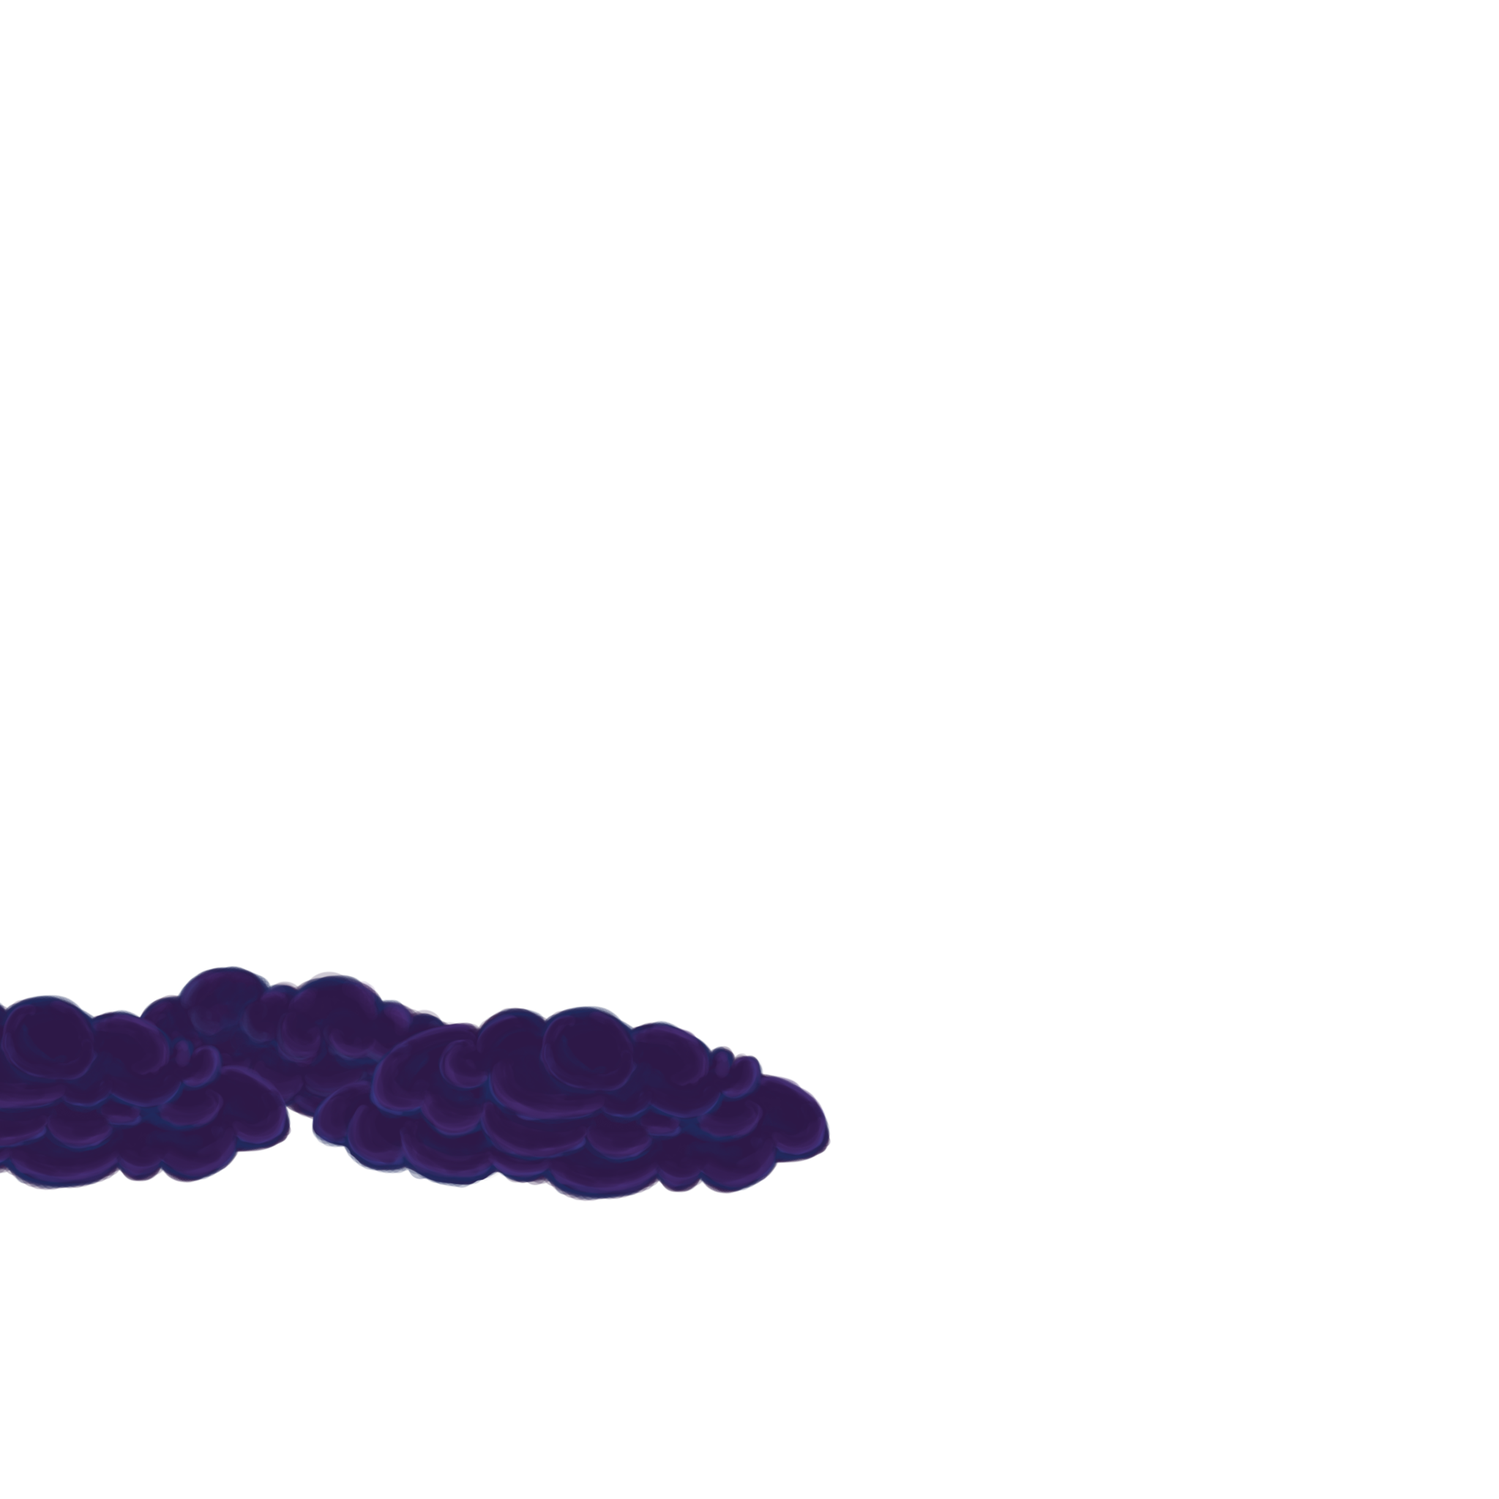
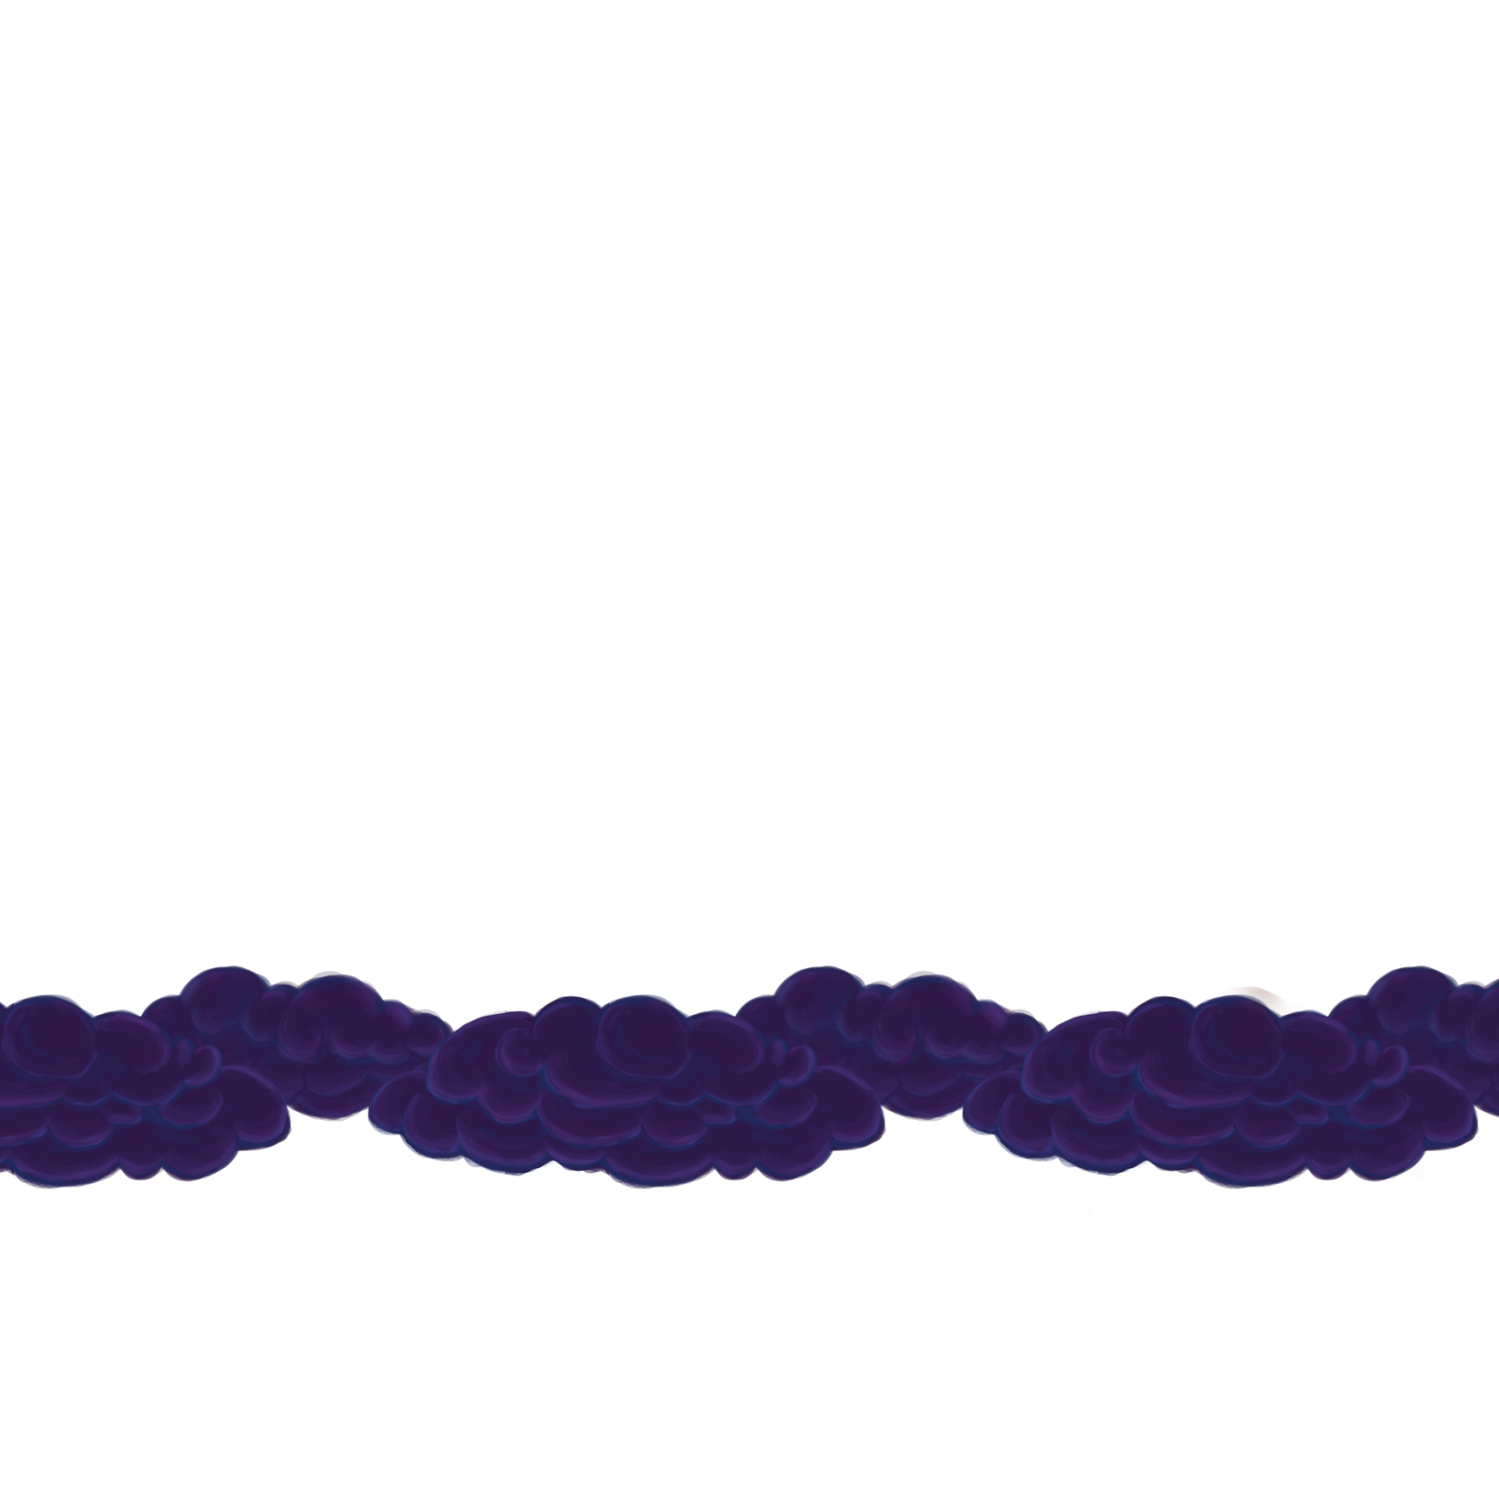
Bridges Completed
Completed the bridge breaking functionality.
Switched player sides.
Completed end of game sequences.
Fixed clouds.

Changed region(s): [[0.1875, 0.625, 1.0, 0.8125]]

diff --git a/WorldsApart/WorldsApart/Code/Levels/FinalBridge.cs b/WorldsApart/WorldsApart/Code/Levels/FinalBridge.cs
@@ -3,6 +3,8 @@ using System.Collections.Generic;
 using System.Linq;
 using System.Text;
 
+using System.IO;
+
 using Microsoft.Xna.Framework.Graphics;
 using Microsoft.Xna.Framework;
 
@@ -26,6 +28,8 @@ namespace WorldsApart.Code.Levels
         AnimatedSprite player1FadeFrame;
         AnimatedSprite player2FadeFrame;
 
+        SpriteIMG finalField;
+
 
         public FinalBridge(GSPlay gsPlay)
             : base(gsPlay)
@@ -33,8 +37,8 @@ namespace WorldsApart.Code.Levels
             levelDataTexture = gsPlay.LoadTexture("Levels/bridge");
 
             //player1Pos = GridToPosition(79, 44);
-            player1Pos = GridToPosition(6, 44);
-            player2Pos = GridToPosition(131, 44);
+            player2Pos = GridToPosition(6, 44);
+            player1Pos = GridToPosition(131, 44);
 
             hasPortal = false;
 
@@ -45,18 +49,75 @@ namespace WorldsApart.Code.Levels
 
             rightLimit = levelWidth;
 
+            Vector2 bgPosition = new Vector2(-400, -400);
+            SpriteIMG bg1 = new SpriteIMG(gsPlay.LoadTexture("BGs/mountainBackdropBaseBoth"), bgPosition);
+            bg1.scale = new Vector2(1.5f);
+            gsPlay.AddParallax(bg1, .1f);
+            bgPosition = new Vector2(-600, -380);
+            SpriteIMG bg2 = new SpriteIMG(gsPlay.LoadTexture("BGs/mountainBackdropOverlayBoth"), bgPosition);
+            bg2.scale = new Vector2(2);
+            gsPlay.AddParallax(bg2, .2f);
+
+            for (int x = 1; x <= 5; x++)
+            {
+                for (int y = 1; y <= 2; y++)
+                {
+                    if (x == 5 && y == 1) continue;
+
+                    SpriteIMG matte = new SpriteIMG(gsPlay.LoadTexture("BGs/bridgeMatte" + x + "x" + y), new Vector2(1024 * (x - 1) - 1078, 1024 * (y - 1) - 100));
+                    gsPlay.AddParallax(matte, .5f);
+
+
+                }
+            }
+
+            for (int x = 1; x <= 5; x++)
+            {
+                for (int y = 1; y <= 3; y++)
+                {
+                    string fgName = "LevelTiles/Bridge/bridgeFG" + x + "x" + y;
+                    if (File.Exists("Content/" + fgName + ".xnb"))
+                    {
+                        SpriteIMG fg = gsPlay.AddFrontFGTile(gsPlay.LoadTexture(fgName), new Vector2(1024 * (x - 1), 1024 * (y - 1)));
+                        fg.origin = Vector2.Zero;
+                    }
+
+                    string bgName = "LevelTiles/Bridge/bridgeBG" + x + "x" + y;
+                    if (File.Exists("Content/" + bgName + ".xnb"))
+                    {
+                        SpriteIMG bg = gsPlay.AddBackFGTile(gsPlay.LoadTexture(bgName), new Vector2(1024 * (x - 1), 1024 * (y - 1)));
+                        bg.origin = Vector2.Zero;
+                    }
+
+                }
+            }
+
+            for (int x = 1; x <= 5; x++)
+            {
+                SpriteIMG cloud = gsPlay.AddFrontFGTile(gsPlay.LoadTexture("LevelTiles/Bridge/clouds" + x + "x1"), new Vector2(1024 * (x - 1), 0));
+                cloud.illuminatingAllTheTime = true;
+                cloud.origin = Vector2.Zero;
+            }
+
+            Vector2 bridgePos = new Vector2(2160, 613.5f);
+            gsPlay.AddFrontFGTile(gsPlay.LoadTexture("GameObjects/bridgeFull"), bridgePos);
+
             atmosphereLight = new Color(100, 100, 100);
 
-            PointLight sun1 = gsPlay.AddPointLight(Art.whitePixel, GridToPosition(0, 0) + new Vector2(0, -200), new Vector2(2048, 1800));
-            PointLight sun2 = gsPlay.AddPointLight(Art.whitePixel, GridToPosition(32, 0) + new Vector2(0, -200), new Vector2(2048, 1800));
-            PointLight sun3 = gsPlay.AddPointLight(Art.whitePixel, GridToPosition(64, 0) + new Vector2(0, -200), new Vector2(2048, 1800));
-            PointLight sun4 = gsPlay.AddPointLight(Art.whitePixel, GridToPosition(96, 0) + new Vector2(0, -200), new Vector2(2048, 1800));
-            PointLight sun5 = gsPlay.AddPointLight(Art.whitePixel, GridToPosition(128, 0) + new Vector2(0, -200), new Vector2(2048, 1800));
+            PointLight sun1 = gsPlay.AddPointLight(Art.whitePixel, GridToPosition(0, 0) + new Vector2(0, -200), new Vector2(2048, 1850));
+            PointLight sun2 = gsPlay.AddPointLight(Art.whitePixel, GridToPosition(32, 0) + new Vector2(0, -200), new Vector2(2048, 1850));
+            PointLight sun3 = gsPlay.AddPointLight(Art.whitePixel, GridToPosition(64, 0) + new Vector2(0, -200), new Vector2(2048, 1850));
+            PointLight sun4 = gsPlay.AddPointLight(Art.whitePixel, GridToPosition(96, 0) + new Vector2(0, -200), new Vector2(2048, 1850));
+            PointLight sun5 = gsPlay.AddPointLight(Art.whitePixel, GridToPosition(128, 0) + new Vector2(0, -200), new Vector2(2048, 1850));
             sun1.screenCull = false;
             sun2.screenCull = false;
             sun3.screenCull = false;
             sun4.screenCull = false;
             sun5.screenCull = false;
+
+
+            finalField = gsPlay.AddBackFGTile(gsPlay.LoadTexture("Cutscene/finalField"), new Vector2(2175, 451));
+            finalField.visible = false;
             
 
             Vector2 introPos = GridToPosition(41, 25) + new Vector2(0, 20);
@@ -113,20 +174,20 @@ namespace WorldsApart.Code.Levels
                     for (int i = 0; i < 2; i++)
                     {
                         Particle rain = gsPlay.AddRain(true);
-                        rain.position = new Vector2(rain.position.X, 800);
+                        rain.position = new Vector2(rain.position.X, 762);
                         rain = gsPlay.AddRain(false);
-                        rain.position = new Vector2(rain.position.X, 800);
+                        rain.position = new Vector2(rain.position.X, 762);
                     }
 
-                    if (gsPlay.player1.position.X > 2048)
-                    {
-                        gsPlay.player1.superStopInput = true;
-                        gsPlay.player1.speed.X = 0;
-                    }
-                    if (gsPlay.player2.position.X < 2272)
+                    if (gsPlay.player2.position.X > 2048)
                     {
                         gsPlay.player2.superStopInput = true;
                         gsPlay.player2.speed.X = 0;
+                    }
+                    if (gsPlay.player1.position.X < 2272)
+                    {
+                        gsPlay.player1.superStopInput = true;
+                        gsPlay.player1.speed.X = 0;
                     }
 
                     if (beforeCutscene)
@@ -161,6 +222,11 @@ namespace WorldsApart.Code.Levels
                                 player1Ending.visible = true;
                                 player2Ending.visible = true;
 
+                                finalField.visible = true;
+                                gsPlay.frontFGList.Clear();
+                                gsPlay.frontFGList.Add(player1Ending);
+                                gsPlay.frontFGList.Add(player2Ending);
+
                                 //67.5 x 13.5
                                 player1Ending.position = GridToPosition(67, 13) + new Vector2(16, 16);
                                 player2Ending.position = player1Ending.position;
@@ -170,8 +236,8 @@ namespace WorldsApart.Code.Levels
                                 gsPlay.player1.position = player1Ending.position;
                                 gsPlay.player2.position = player1Ending.position;
 
-                                player1Ending.spriteEffects = SpriteEffects.FlipHorizontally;
-                                player2Ending.spriteEffects = SpriteEffects.FlipHorizontally;
+                                //player1Ending.spriteEffects = SpriteEffects.FlipHorizontally;
+                                //player2Ending.spriteEffects = SpriteEffects.FlipHorizontally;
 
                                 //TODO: unified background
 

diff --git a/WorldsApart/WorldsApart/Code/Levels/theBridge.cs b/WorldsApart/WorldsApart/Code/Levels/theBridge.cs
@@ -31,14 +31,24 @@ namespace WorldsApart.Code.Levels
         float barrierCounter = 0;
         float barrierRate = 1;
 
+        SpriteIMG bridge;
+        SpriteIMG cracksWarm1;
+        SpriteIMG cracksWarm2;
+        SpriteIMG cracksWarm3;
+        SpriteIMG cracksCool1;
+        SpriteIMG cracksCool2;
+        SpriteIMG cracksCool3;
+
+        bool bridgeShattered = false;
+
         public theBridge(GSPlay gsPlay)
             : base(gsPlay)
         {
             levelDataTexture = gsPlay.LoadTexture("Levels/bridge");
 
             //player1Pos = GridToPosition(79, 44);
-            player1Pos = GridToPosition(6, 44);
-            player2Pos = GridToPosition(131, 44);
+            player2Pos = GridToPosition(6, 44);
+            player1Pos = GridToPosition(131, 44);
 
             hasPortal = false;
 
@@ -92,7 +102,23 @@ namespace WorldsApart.Code.Levels
                 }
             }
 
-            
+            Vector2 bridgePos = new Vector2(2160, 613.5f);
+
+            bridge = gsPlay.AddFrontFGTile(gsPlay.LoadTexture("GameObjects/bridgeFull"), bridgePos);
+
+            cracksCool1 = gsPlay.AddFrontFGTile(gsPlay.LoadTexture("GameObjects/bridgeCracksCool1"), bridgePos);
+            cracksCool2 = gsPlay.AddFrontFGTile(gsPlay.LoadTexture("GameObjects/bridgeCracksCool2"), bridgePos);
+            cracksCool3 = gsPlay.AddFrontFGTile(gsPlay.LoadTexture("GameObjects/bridgeCracksCool3"), bridgePos);
+            cracksCool1.visible = false;
+            cracksCool2.visible = false;
+            cracksCool3.visible = false;
+
+            cracksWarm1 = gsPlay.AddFrontFGTile(gsPlay.LoadTexture("GameObjects/bridgeCracksWarm1"), bridgePos);
+            cracksWarm2 = gsPlay.AddFrontFGTile(gsPlay.LoadTexture("GameObjects/bridgeCracksWarm2"), bridgePos);
+            cracksWarm3 = gsPlay.AddFrontFGTile(gsPlay.LoadTexture("GameObjects/bridgeCracksWarm3"), bridgePos);
+            cracksWarm1.visible = false;
+            cracksWarm2.visible = false;
+            cracksWarm3.visible = false;
 
             barrier = gsPlay.AddTriggerArea(new EventTrigger(this, 1), gsPlay.LoadTexture("bridgeBarrier"), GridToPosition(67, 7) + new Vector2(16, 16));
             barrier.visible = false;
@@ -137,7 +163,7 @@ namespace WorldsApart.Code.Levels
 
                     if (barrier.hitBox.CheckCollision(gsPlay.player1.hitBox))
                     {
-                        gsPlay.player1.nextForce.X = -5;
+                        gsPlay.player1.nextForce.X = 5;
                         Vector2 pos = new Vector2(barrier.position.X, gsPlay.player1.position.Y);
                         Particle p = gsPlay.AddParticle(Art.barrier, pos);
                         p.startScale = .8f;
@@ -147,10 +173,13 @@ namespace WorldsApart.Code.Levels
                         p.StartParticleSystems();
                         player1Count++;
                         atmosphereLight = Color.Black;
+                        if (player1Count == 2) cracksWarm1.visible = true;
+                        else if (player1Count == 5) cracksWarm2.visible = true;
+                        else if (player1Count == 7) cracksWarm3.visible = true;
                     }
                     if (barrier.hitBox.CheckCollision(gsPlay.player2.hitBox))
                     {
-                        gsPlay.player2.nextForce.X = 5;
+                        gsPlay.player2.nextForce.X = -5;
                         Vector2 pos = new Vector2(barrier.position.X, gsPlay.player2.position.Y);
                         Particle p = gsPlay.AddParticle(Art.barrier, pos);
                         p.startScale = .8f;
@@ -160,12 +189,18 @@ namespace WorldsApart.Code.Levels
                         p.StartParticleSystems();
                         player2Count++;
                         atmosphereLight = Color.Black;
+                        if (player2Count == 2) cracksCool1.visible = true;
+                        else if (player2Count == 5) cracksCool2.visible = true;
+                        else if (player2Count == 7) cracksCool3.visible = true;
                     }
                     break;
                 case 2:
-                    if (player1Count >= 5 && player2Count >= 5 && breaker.hitBox.CheckCollision(gsPlay.player1.hitBox) && breaker.hitBox.CheckCollision(gsPlay.player2.hitBox))
+                    if (player1Count >= 10 && player2Count >= 10 && breaker.hitBox.CheckCollision(gsPlay.player1.hitBox) && breaker.hitBox.CheckCollision(gsPlay.player2.hitBox))
                     {
-                        ShatterBridge();
+                        if (!bridgeShattered)
+                        {
+                            ShatterBridge();
+                        }
                     }
                     break;
                 case 3:
@@ -176,6 +211,8 @@ namespace WorldsApart.Code.Levels
 
         public void ShatterBridge()
         {
+            bridgeShattered = true;
+
             //62, 15
             environmentData[62, 15].isSolid = false;
             environmentData[63, 15].isSolid = false;
@@ -189,6 +226,45 @@ namespace WorldsApart.Code.Levels
             environmentData[71, 15].isSolid = false;
             environmentData[72, 15].isSolid = false;
 
+            bridge.visible = false;
+            cracksCool1.visible = false;
+            cracksCool2.visible = false;
+            cracksCool3.visible = false;
+            cracksWarm1.visible = false;
+            cracksWarm2.visible = false;
+            cracksWarm3.visible = false;
+            
+            Vector2 bridgePos = new Vector2(2160, 613.5f);
+
+
+            //Warm
+            gsPlay.AddBridgeParticle(Art.bridgeParticle1, bridgePos + new Vector2(153, 10));
+            gsPlay.AddBridgeParticle(Art.bridgeParticle2, bridgePos + new Vector2(114, -88));
+            gsPlay.AddBridgeParticle(Art.bridgeParticle3, bridgePos + new Vector2(160, -114));
+            gsPlay.AddBridgeParticle(Art.bridgeParticle4, bridgePos + new Vector2(158, -5));
+            gsPlay.AddBridgeParticle(Art.bridgeParticle13, bridgePos + new Vector2(68, -94));
+            gsPlay.AddBridgeParticle(Art.bridgeParticle14, bridgePos + new Vector2(18, -105));
+            gsPlay.AddBridgeParticle(Art.bridgeParticle15, bridgePos + new Vector2(162, -48));
+            gsPlay.AddBridgeParticle(Art.bridgeParticle16, bridgePos + new Vector2(93, -127));
+            gsPlay.AddBridgeParticle(Art.bridgeParticle17, bridgePos + new Vector2(32, -127));
+            gsPlay.AddBridgeParticle(Art.bridgeParticle18, bridgePos + new Vector2(93, -58));
+
+
+            //Cold
+            gsPlay.AddBridgeParticle(Art.bridgeParticle5, bridgePos + new Vector2(-161, -100));
+            gsPlay.AddBridgeParticle(Art.bridgeParticle6, bridgePos + new Vector2(-70, -60));
+            gsPlay.AddBridgeParticle(Art.bridgeParticle7, bridgePos + new Vector2(-118, -125));
+            gsPlay.AddBridgeParticle(Art.bridgeParticle8, bridgePos + new Vector2(-162, -52));
+            gsPlay.AddBridgeParticle(Art.bridgeParticle9, bridgePos + new Vector2(-26, -103));
+            gsPlay.AddBridgeParticle(Art.bridgeParticle10, bridgePos + new Vector2(-112, -70));
+            gsPlay.AddBridgeParticle(Art.bridgeParticle11, bridgePos + new Vector2(-78, -99));
+            gsPlay.AddBridgeParticle(Art.bridgeParticle12, bridgePos + new Vector2(-131, -19));
+
+
+            for (int i = 0; i < 20; i++)
+            {
+                gsPlay.AddBridgeSmoke();
+            }
         }
     }
 }

diff --git a/WorldsApart/WorldsApart/Code/Gamestates/GameStateManager.cs b/WorldsApart/WorldsApart/Code/Gamestates/GameStateManager.cs
@@ -89,6 +89,24 @@ namespace WorldsApart.Code.Gamestates
             Art.portalItem4 = game.Content.Load<Texture2D>("GameObjects/portalItem4");
             Art.portalItem5 = game.Content.Load<Texture2D>("GameObjects/portalItem5");
             Art.smokePuff = game.Content.Load<Texture2D>("TestSprites/SmokePuff");
+            Art.bridgeParticle1 = game.Content.Load<Texture2D>("GameObjects/bridgeDebrisParticle1");
+            Art.bridgeParticle2 = game.Content.Load<Texture2D>("GameObjects/bridgeDebrisParticle2");
+            Art.bridgeParticle3 = game.Content.Load<Texture2D>("GameObjects/bridgeDebrisParticle3");
+            Art.bridgeParticle4 = game.Content.Load<Texture2D>("GameObjects/bridgeDebrisParticle4");
+            Art.bridgeParticle5 = game.Content.Load<Texture2D>("GameObjects/bridgeDebrisParticle5");
+            Art.bridgeParticle6 = game.Content.Load<Texture2D>("GameObjects/bridgeDebrisParticle6");
+            Art.bridgeParticle7 = game.Content.Load<Texture2D>("GameObjects/bridgeDebrisParticle7");
+            Art.bridgeParticle8 = game.Content.Load<Texture2D>("GameObjects/bridgeDebrisParticle8");
+            Art.bridgeParticle9 = game.Content.Load<Texture2D>("GameObjects/bridgeDebrisParticle9");
+            Art.bridgeParticle10 = game.Content.Load<Texture2D>("GameObjects/bridgeDebrisParticle10");
+            Art.bridgeParticle11 = game.Content.Load<Texture2D>("GameObjects/bridgeDebrisParticle11");
+            Art.bridgeParticle12 = game.Content.Load<Texture2D>("GameObjects/bridgeDebrisParticle12");
+            Art.bridgeParticle13 = game.Content.Load<Texture2D>("GameObjects/bridgeDebrisParticle13");
+            Art.bridgeParticle14 = game.Content.Load<Texture2D>("GameObjects/bridgeDebrisParticle14");
+            Art.bridgeParticle15 = game.Content.Load<Texture2D>("GameObjects/bridgeDebrisParticle15");
+            Art.bridgeParticle16 = game.Content.Load<Texture2D>("GameObjects/bridgeDebrisParticle16");
+            Art.bridgeParticle17 = game.Content.Load<Texture2D>("GameObjects/bridgeDebrisParticle17");
+            Art.bridgeParticle18 = game.Content.Load<Texture2D>("GameObjects/bridgeDebrisParticle18");
 
 
             GSOverlay.InitializeGSOverlay(this);

diff --git a/WorldsApart/WorldsApart/Code/Gamestates/GSPlay.cs b/WorldsApart/WorldsApart/Code/Gamestates/GSPlay.cs
@@ -646,6 +646,32 @@ namespace WorldsApart.Code.Gamestates
             return p;
         }
 
+        public Particle AddBridgeParticle(Texture2D texture, Vector2 position)
+        {
+            Particle p = new Particle(texture, position);
+            particleList.Add(p);
+            p.rotationSpeed = Mathness.RandomNumber(-.1f, .1f);
+            p.randomMinForce = new Vector2(-.04f, .5f);
+            p.randomMaxForce = new Vector2(.04f, .5f);
+            p.canDie = false;
+            return p;
+        }
+
+        public Particle AddBridgeSmoke()
+        {
+            Vector2 topLeft = new Vector2(1982, 494);
+            Vector2 bottomRight = new Vector2(2317, 598);
+            Particle p = new Particle(Art.smokePuff, new Vector2(Mathness.RandomNumber(topLeft.X, bottomRight.X), Mathness.RandomNumber(topLeft.Y, bottomRight.Y)));
+            particleList.Add(p);
+            p.startAlpha = 255;
+            p.endAlpha = 0;
+            p.startScale = 1.5f;
+            p.endScale = 2f;
+            p.rotationSpeed = Mathness.RandomNumber(-.1f, .1f);
+            p.StartParticleSystems();
+            return p;
+        }
+
         static public void AddCheckpointParticles(Vector2 position, bool isPlayer1)
         {
             for (int i = 0; i < 10; i++)

diff --git a/WorldsApart/WorldsApart/Code/Graphics/Art.cs b/WorldsApart/WorldsApart/Code/Graphics/Art.cs
@@ -31,5 +31,23 @@ namespace WorldsApart.Code.Graphics
         public static Texture2D portalItem4;
         public static Texture2D portalItem5;
         public static Texture2D smokePuff;
+        public static Texture2D bridgeParticle1;
+        public static Texture2D bridgeParticle2;
+        public static Texture2D bridgeParticle3;
+        public static Texture2D bridgeParticle4;
+        public static Texture2D bridgeParticle5;
+        public static Texture2D bridgeParticle6;
+        public static Texture2D bridgeParticle7;
+        public static Texture2D bridgeParticle8;
+        public static Texture2D bridgeParticle9;
+        public static Texture2D bridgeParticle10;
+        public static Texture2D bridgeParticle11;
+        public static Texture2D bridgeParticle12;
+        public static Texture2D bridgeParticle13;
+        public static Texture2D bridgeParticle14;
+        public static Texture2D bridgeParticle15;
+        public static Texture2D bridgeParticle16;
+        public static Texture2D bridgeParticle17;
+        public static Texture2D bridgeParticle18;
     }
 }
